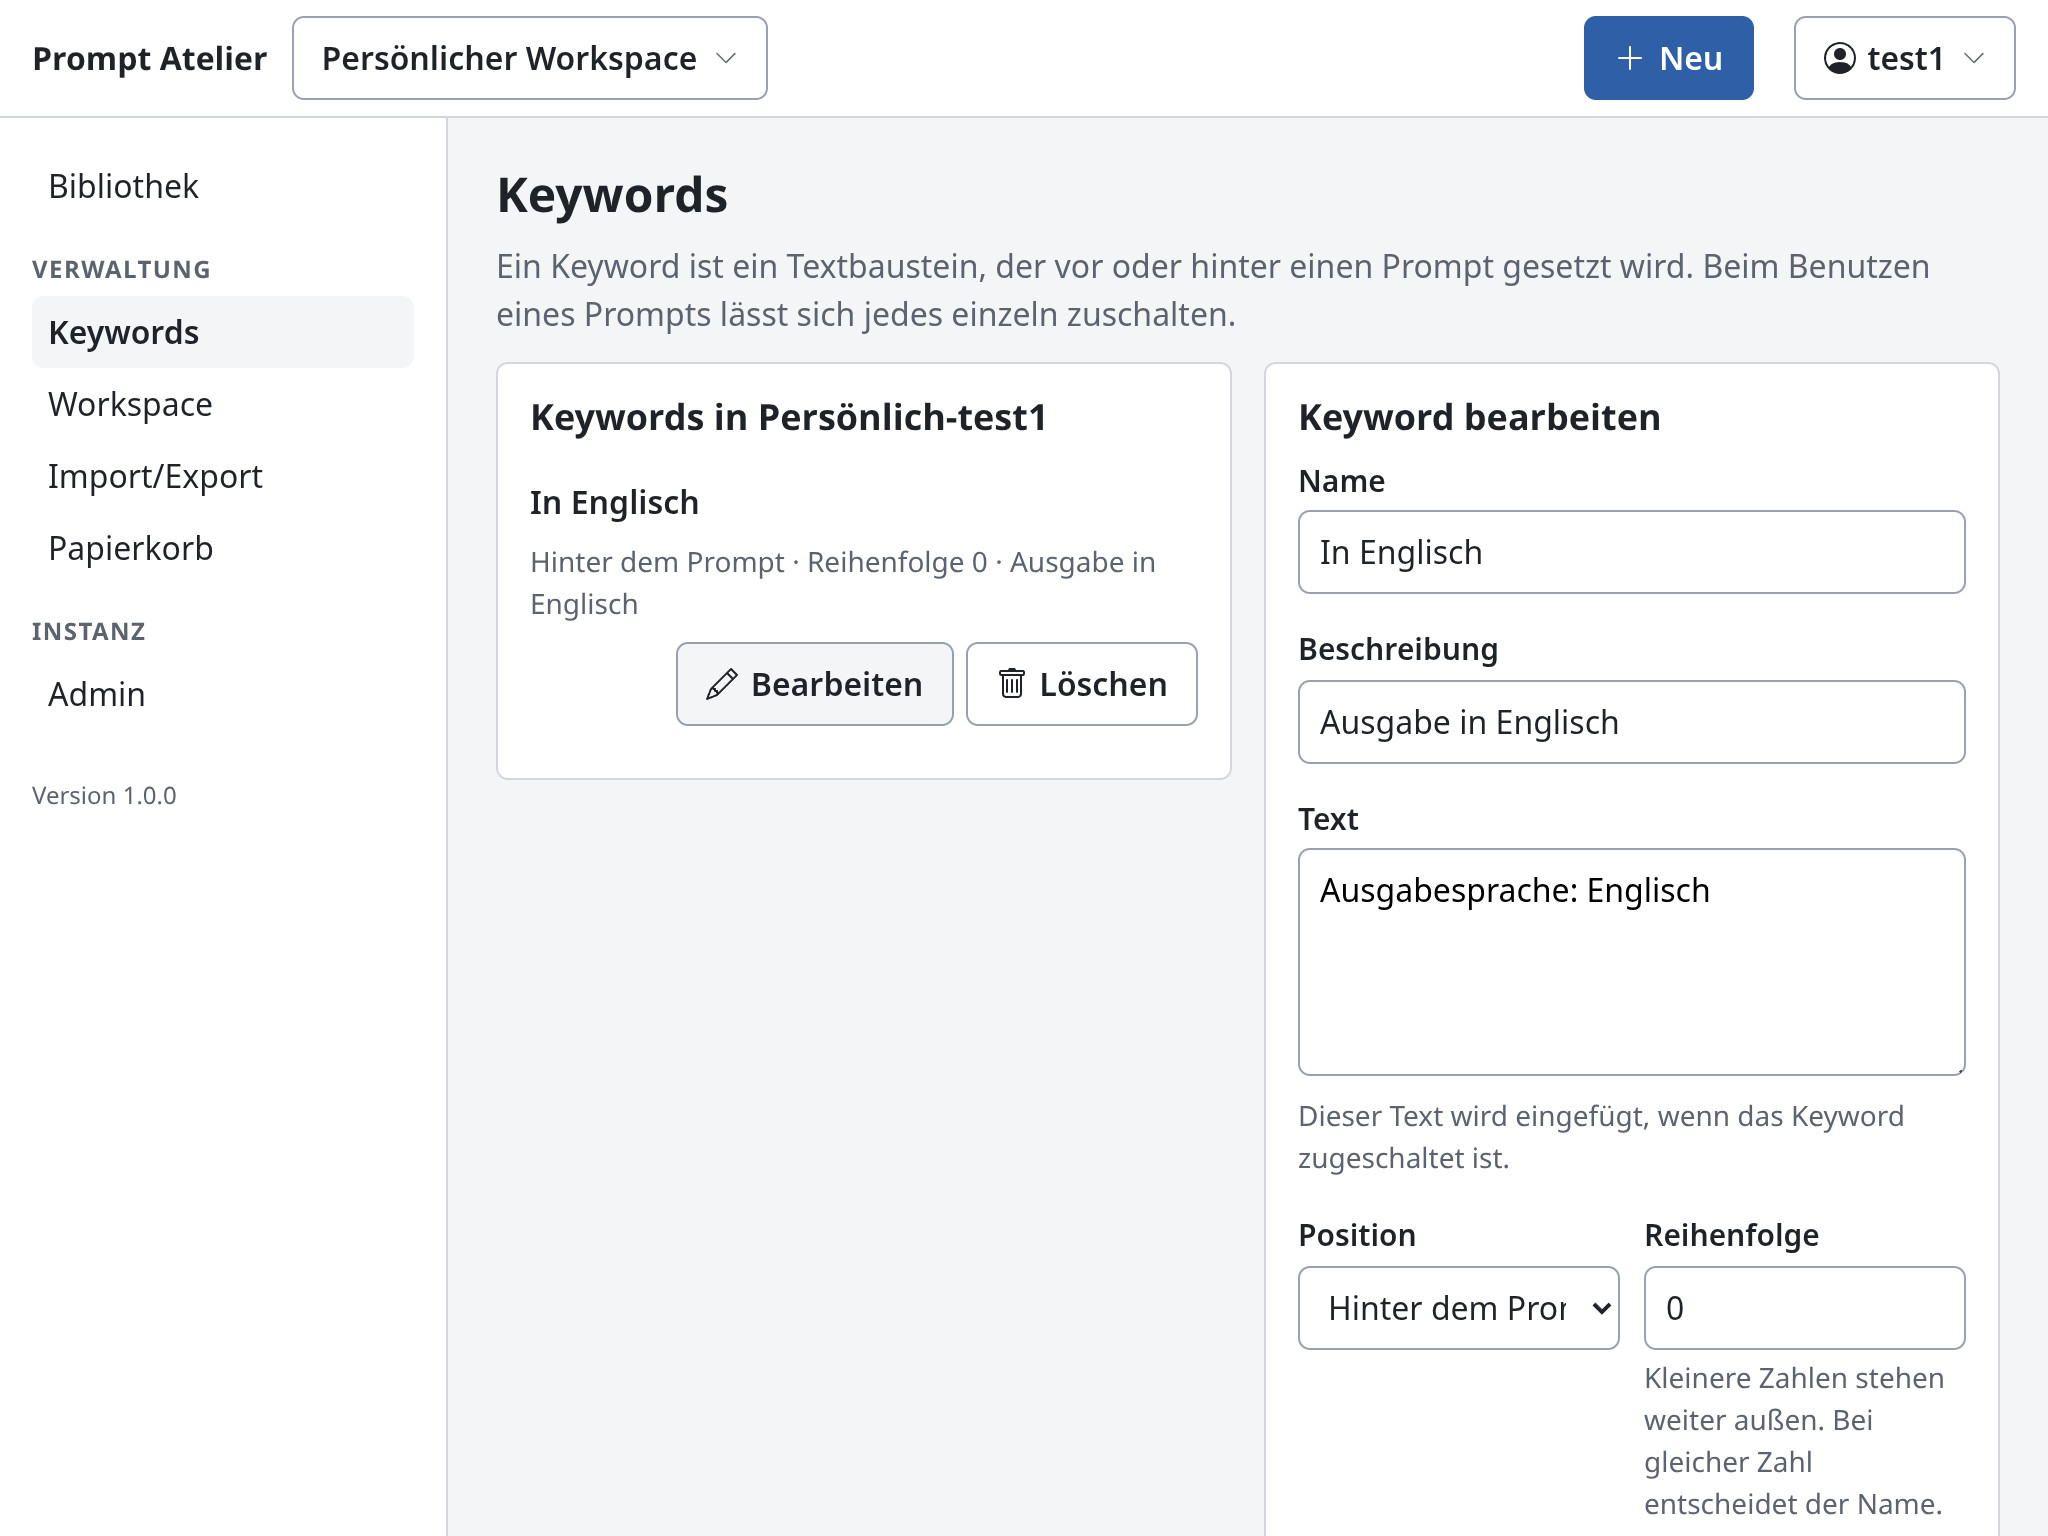
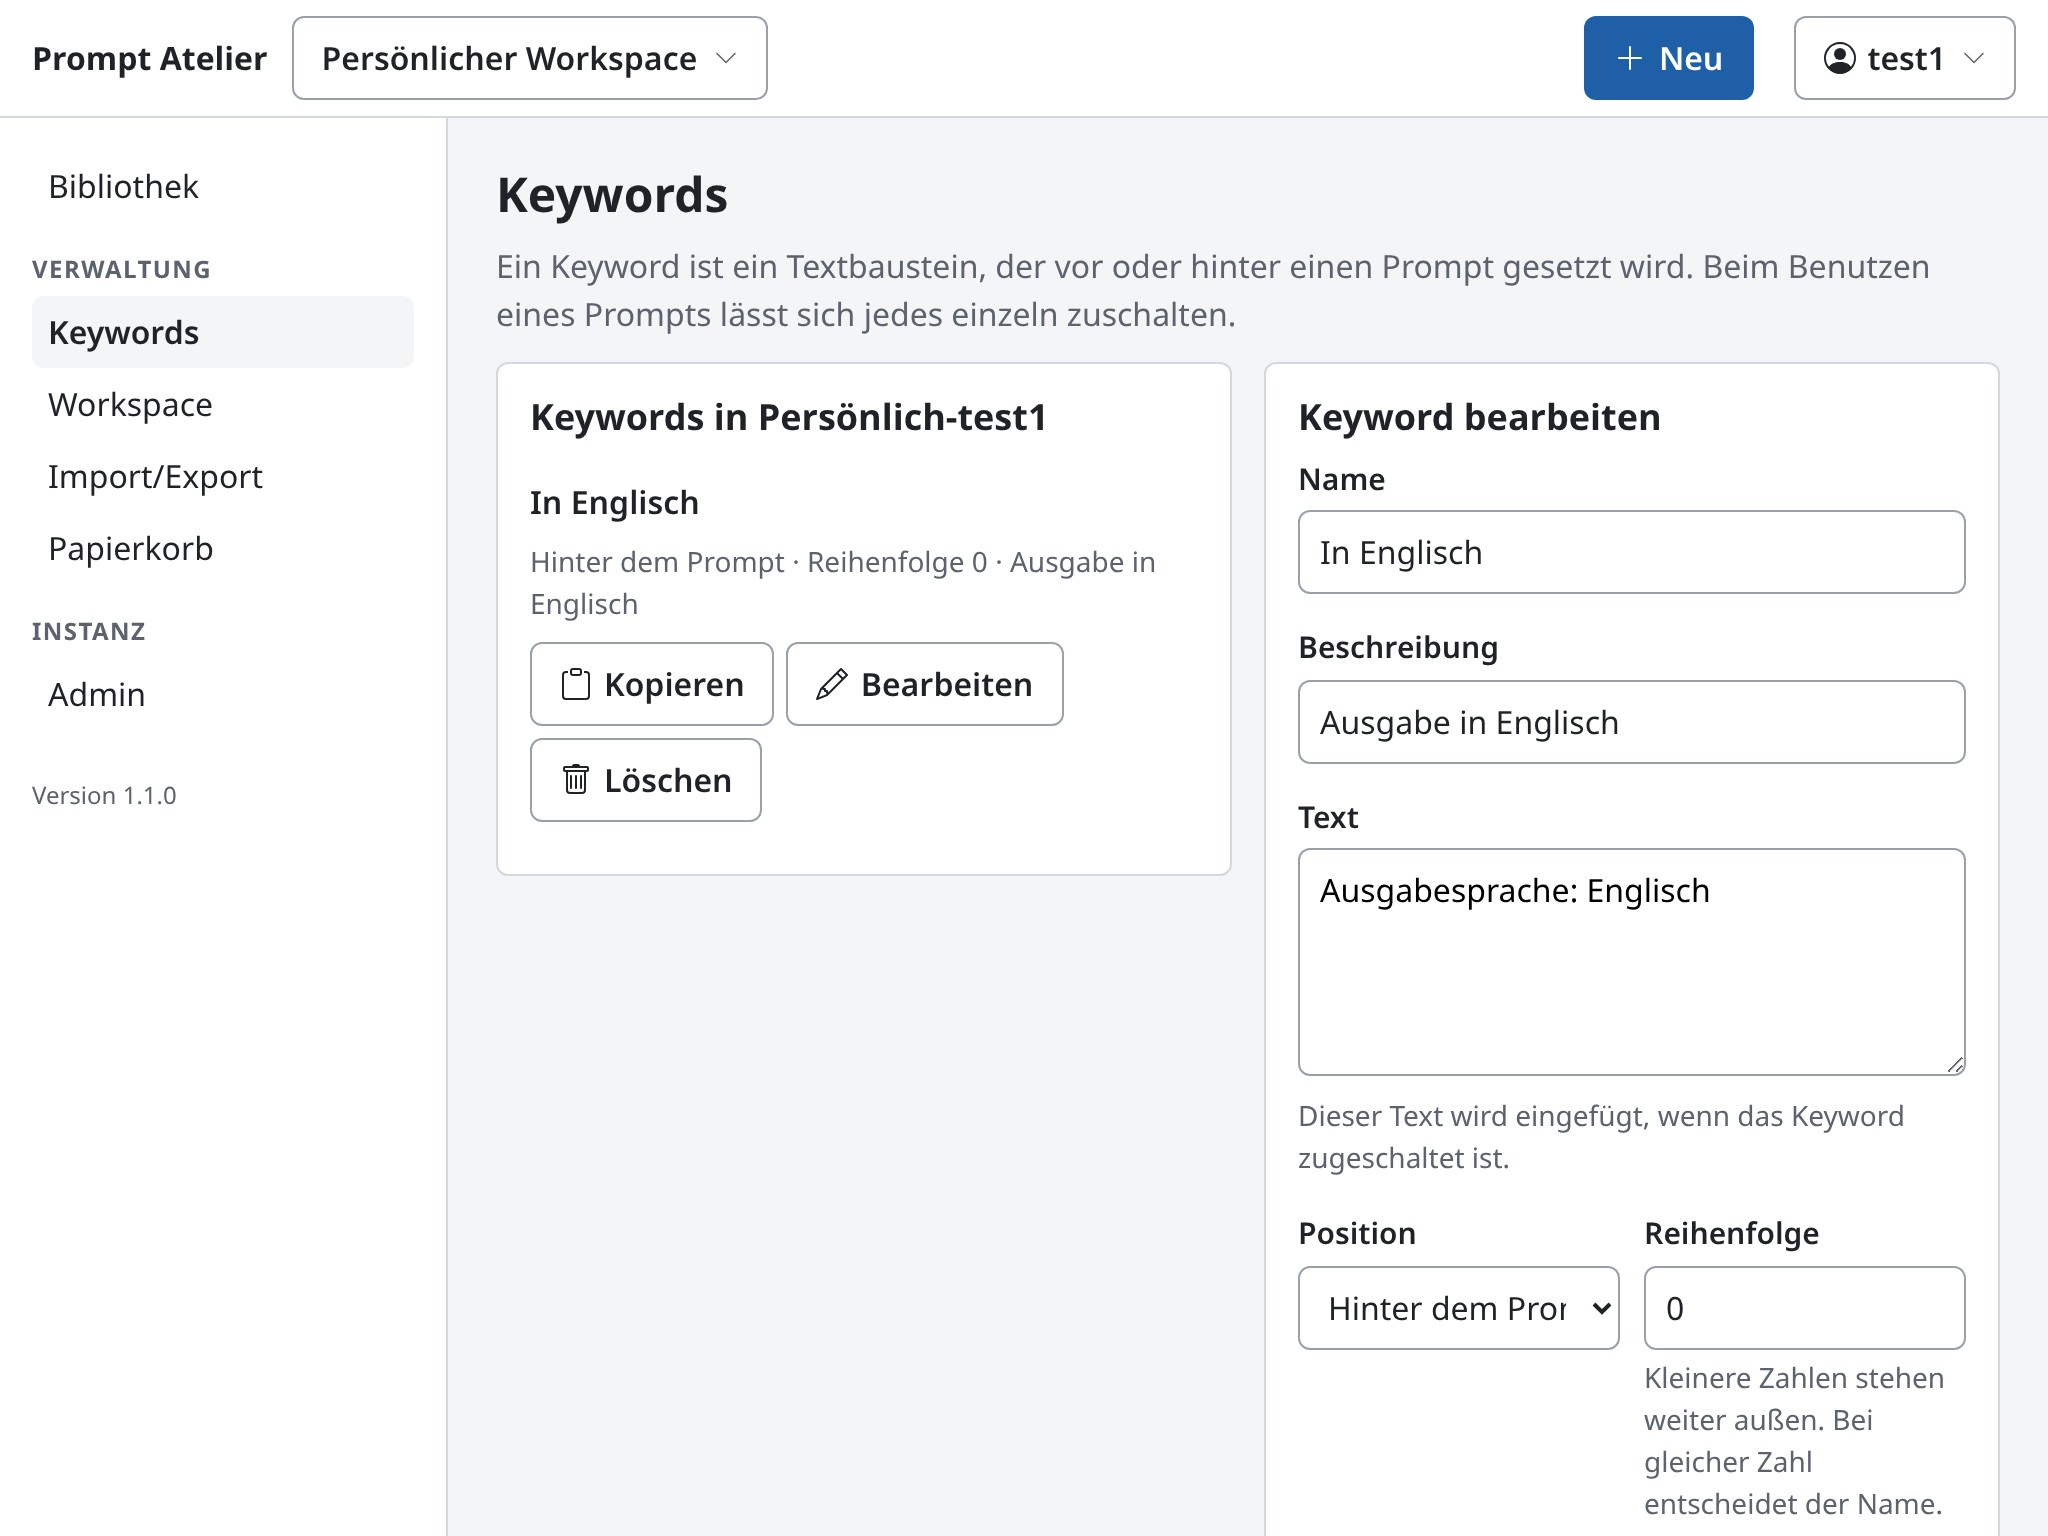
Browser tests without WebKit by default, new keyword screenshot
- [change] Leave WebKit out of the browser tests unless run_tests is
  called with --webkit, and name it as skipped in the output.
- [docs] Retake the screenshot of the keyword list, which now shows the
  copy button.
- [docs] Explain in the developer manual that identifiers in comments
  refer to internal documents, and document the --webkit switch.
- [test] Read the archived implementation plan where it now lives.

diff --git a/scripts/lib/run_tests.rb b/scripts/lib/run_tests.rb
@@ -33,7 +33,7 @@ module PromptAtelier
     # reports "All tests that ran have passed" and exits 0 — and whoever typed
     # it believes the browser cases ran. Found by typing `--help`, which ran
     # the entire suite instead of printing anything.
-    SWITCHES = ['--e2e', '--measure'].freeze
+    SWITCHES = ['--e2e', '--measure', '--webkit'].freeze
 
     def run(argv = [])
       e2e     = argv.include?('--e2e')
@@ -50,7 +50,7 @@ module PromptAtelier
       outcomes = []
       outcomes << backend_tests(target)  if only.nil? || only == 'backend'
       outcomes << frontend_tests(target) if only.nil? || only == 'frontend'
-      outcomes << e2e_tests(target)      if e2e && (only.nil? || only == 'e2e')
+      outcomes << e2e_tests(target, e2e_selection(argv)) if e2e && (only.nil? || only == 'e2e')
       outcomes << measurements(target)   if measure && (only.nil? || only == 'measure')
 
       puts
@@ -180,7 +180,17 @@ module PromptAtelier
     # fragile half of the two.
     E2E_PROJECTS = %w[chromium firefox webkit 360px].freeze
 
-    def e2e_tests(target)
+    # Run only on request, with --webkit. The operator decided so on
+    # 2026-09-24: on his machine the WebKit runs leave graphics artefacts on an
+    # external screen, and no WebKit-only fault has been recorded so far.
+    # Skipped out loud, never in silence: the run names what it left out.
+    ON_REQUEST = %w[webkit].freeze
+
+    def e2e_selection(argv)
+      argv.include?('--webkit') ? E2E_PROJECTS : E2E_PROJECTS - ON_REQUEST
+    end
+
+    def e2e_tests(target, projects = E2E_PROJECTS)
       specs = Dir.glob(File.join(tests_dir, 'e2e', '*.spec.js'))
       if specs.empty?
         heading(t('script.tests_e2e'))
@@ -190,7 +200,10 @@ module PromptAtelier
 
       # `all?` would stop at the first failing engine, and the report would say
       # nothing about the other two. All of them run, then the verdict.
-      E2E_PROJECTS.map { |project| e2e_project(target, project) }.all?
+      (E2E_PROJECTS - projects).each do |project|
+        note(t('script.tests_skipped', name: "Playwright (#{project})", reason: 'run with --webkit to include it'))
+      end
+      projects.map { |project| e2e_project(target, project) }.all?
     end
 
     def e2e_project(target, project)

diff --git a/tests/backend/unit/plan_packages_test.rb b/tests/backend/unit/plan_packages_test.rb
@@ -18,11 +18,14 @@ require_relative '../../test_helper'
 # comparison. This one was simply never made, which is how the plan came to
 # understate its own scope by eight packages.
 class PlanPackagesTest < PromptAtelier::TestCase
-  PLAN = PromptAtelier::TestSupport.project_document('Umsetzungsplan.md')
+  # Archived on 2026-09-24, all packages closed. The check stays: the file is
+  # read where it now lives, so the case still runs instead of skipping.
+  PLAN_FILE = 'archiv/Umsetzungsplan-2026-08-11.md'
+  PLAN = PromptAtelier::TestSupport.project_document(PLAN_FILE)
 
   def setup
     super
-    skip PromptAtelier::TestSupport.document_missing('Umsetzungsplan.md') if PLAN.nil?
+    skip PromptAtelier::TestSupport.document_missing(PLAN_FILE) if PLAN.nil?
   end
 
   # A written-out package: a level-two heading naming it.

diff --git a/tests/backend/unit/browser_projects_test.rb b/tests/backend/unit/browser_projects_test.rb
@@ -39,6 +39,17 @@ class BrowserProjectsTest < PromptAtelier::TestCase
     end
   end
 
+  # WebKit runs on request only, decided by the operator on 2026-09-24. The
+  # other three must still run by default, and --webkit must bring it back,
+  # otherwise NFA-10 could not be shown at all any more.
+  def test_webkit_runs_only_on_request
+    default = PromptAtelier::RunTests.e2e_selection(['--e2e'])
+    requested = PromptAtelier::RunTests.e2e_selection(['--e2e', '--webkit'])
+
+    assert_equal %w[chromium firefox 360px], default
+    assert_equal PromptAtelier::RunTests::E2E_PROJECTS, requested
+  end
+
   # TF-709: the core workflow at the narrowest supported width. A project whose
   # viewport quietly grew back to the desktop default would still be green —
   # over a screen nobody asked about.

diff --git a/doc/development.de.md b/doc/development.de.md
@@ -4,8 +4,8 @@
 
 | | |
 |---|---|
-| **Fassung** | 2.1 |
-| **Stand** | 2026-08-30 |
+| **Fassung** | 2.2 |
+| **Stand** | 2026-09-24 |
 | **Zielgruppe** | Entwicklung am Quelltext |
 | **Nicht enthalten** | Installation und Betrieb einer Auslieferung. Siehe `installation.de.md` und `operations.de.md` |
 
@@ -140,7 +140,8 @@ project/
 
 ```bash
 scripts/run_tests.sh                  # Backend und Frontend
-scripts/run_tests.sh --e2e            # zusätzlich die Browsertests
+scripts/run_tests.sh --e2e            # zusätzlich die Browsertests, ohne WebKit
+scripts/run_tests.sh --e2e --webkit   # zusätzlich die Browsertests, mit WebKit
 scripts/run_tests.sh --only=backend   # einzelne Suite
 ```
 
@@ -148,7 +149,7 @@ scripts/run_tests.sh --only=backend   # einzelne Suite
 |---|---|---|
 | Backend | Minitest | Fachlogik, Schnittstelle, Skripte |
 | Frontend | Vitest | Komponenten und Zustand |
-| Browser | Playwright | durchgehende Abläufe in Chromium, Firefox, WebKit und bei 360 px Breite |
+| Browser | Playwright | durchgehende Abläufe in Chromium, Firefox und bei 360 px Breite, in WebKit mit `--webkit` |
 
 Testläufe legen ihre Ergebnisse unter `test-results/` ab. Das Verzeichnis liegt außerhalb von `project/`, damit ein Testlauf die Entwicklungsdatenbank nicht berühren kann.
 
@@ -173,6 +174,8 @@ Drei Prüfungen vergleichen den Quelltext mit internen Projektdokumenten, statt 
 | `plan_packages_test` | Jedes Arbeitspaket steht in der Projektübersicht |
 
 **In einem Klon überspringen diese neun Fälle**, mit Angabe des Grundes in der Ausgabe. Sie benötigen Dateien, die nicht veröffentlicht werden. Ein übersprungener Lauf ist erwartet und kein Fehlschlag.
+
+**Kennungen in Kommentaren.** Kommentare im Quelltext nennen Anforderungen und Testfälle mit kurzen Kennungen, etwa mit den Vorsilben `FA-`, `NFA-`, `SEC-` und `TF-`. Sie verweisen auf dieselben internen Dokumente. Die Erklärung neben einer Kennung soll ohne sie vollständig sein.
 
 ### 4.3 Sprachprüfungen
 

diff --git a/doc/development.md b/doc/development.md
@@ -4,8 +4,8 @@
 
 | | |
 |---|---|
-| **Version** | 2.1 |
-| **Date** | 2026-08-30 |
+| **Version** | 2.2 |
+| **Date** | 2026-09-24 |
 | **Audience** | Development on the source |
 | **Not covered** | Installing and running a release. See `installation.md` and `operations.md` |
 
@@ -140,7 +140,8 @@ project/
 
 ```bash
 scripts/run_tests.sh                  # backend and frontend
-scripts/run_tests.sh --e2e            # plus the browser tests
+scripts/run_tests.sh --e2e            # plus the browser tests, without WebKit
+scripts/run_tests.sh --e2e --webkit   # plus the browser tests, WebKit included
 scripts/run_tests.sh --only=backend   # a single suite
 ```
 
@@ -148,7 +149,7 @@ scripts/run_tests.sh --only=backend   # a single suite
 |---|---|---|
 | Backend | Minitest | Domain logic, interface, scripts |
 | Frontend | Vitest | Components and state |
-| Browser | Playwright | End-to-end flows in Chromium, Firefox, WebKit and at 360 px width |
+| Browser | Playwright | End-to-end flows in Chromium, Firefox and at 360 px width, in WebKit with `--webkit` |
 
 Test runs write their output to `test-results/`. That directory lies outside `project/` so that a test run can never touch the development database.
 
@@ -173,6 +174,8 @@ Three checks compare the source against the internal project documents rather th
 | `plan_packages_test` | Every work package appears in the project overview |
 
 **In a clone these nine cases skip**, with the reason stated in the output. They need files that are not published. A skipped run is expected and is not a failure.
+
+**Identifiers in comments.** Comments in the source name requirements and test cases by short identifiers with prefixes such as `FA-`, `NFA-`, `SEC-` and `TF-`. They refer to the same internal documents. The explanation next to an identifier is meant to be complete without it.
 
 ### 4.3 Language checks
 

diff --git a/CHANGELOG.md b/CHANGELOG.md
@@ -16,6 +16,7 @@ Three requests from users, and three corrections found while working on them.
 - **The copy buttons stay in sight beside a long preview.** The bar with both copy buttons stays at the bottom of the window on every screen width while the preview is visible. Before, it did so only on narrow screens.
 - **Notices appear at the top right, below the header.** At the bottom they covered the copy button that had just been pressed.
 - An import request that sends a decision the preview did not offer for a new entry, such as overwriting it, is refused. A request without a decision for a new entry creates it, as before.
+- The browser tests leave WebKit out unless `scripts/run_tests.sh` is called with `--webkit`. Chromium, Firefox and the narrow screen run as before.
 
 ### Fixed
 
